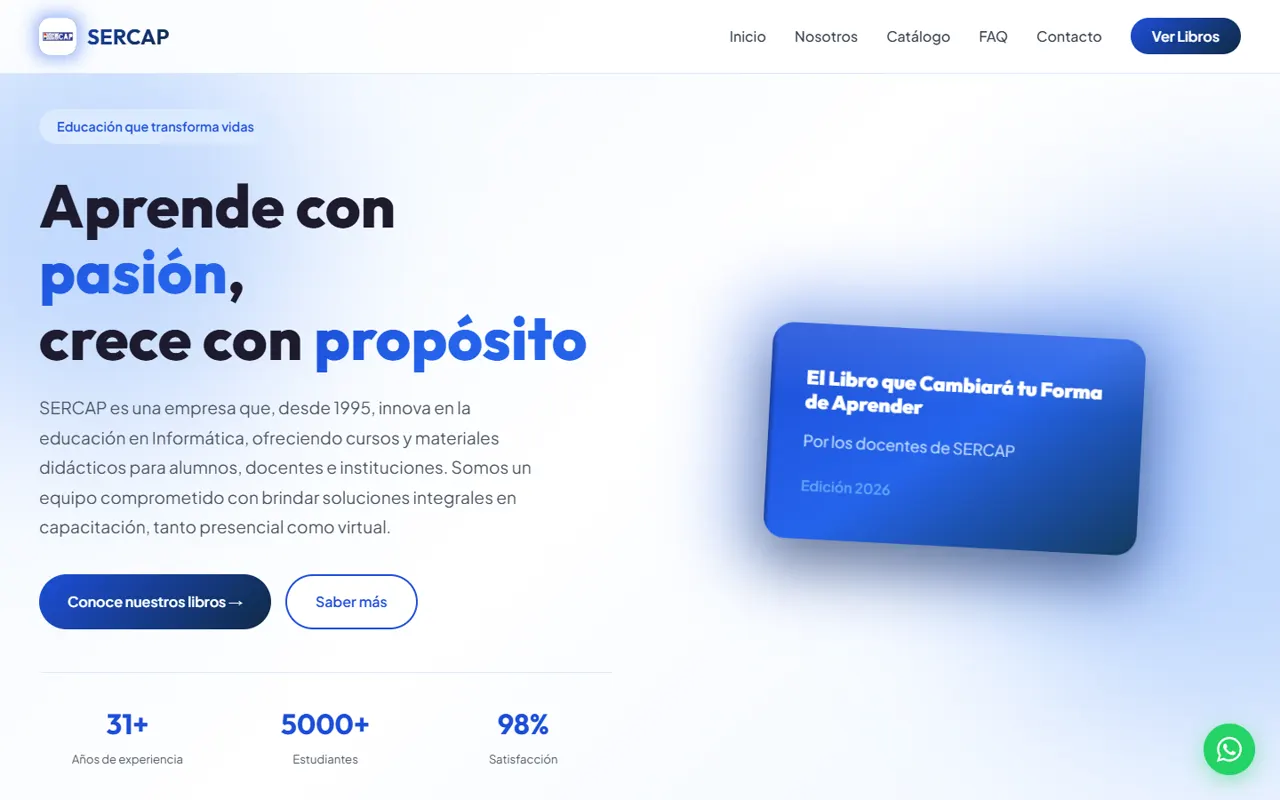
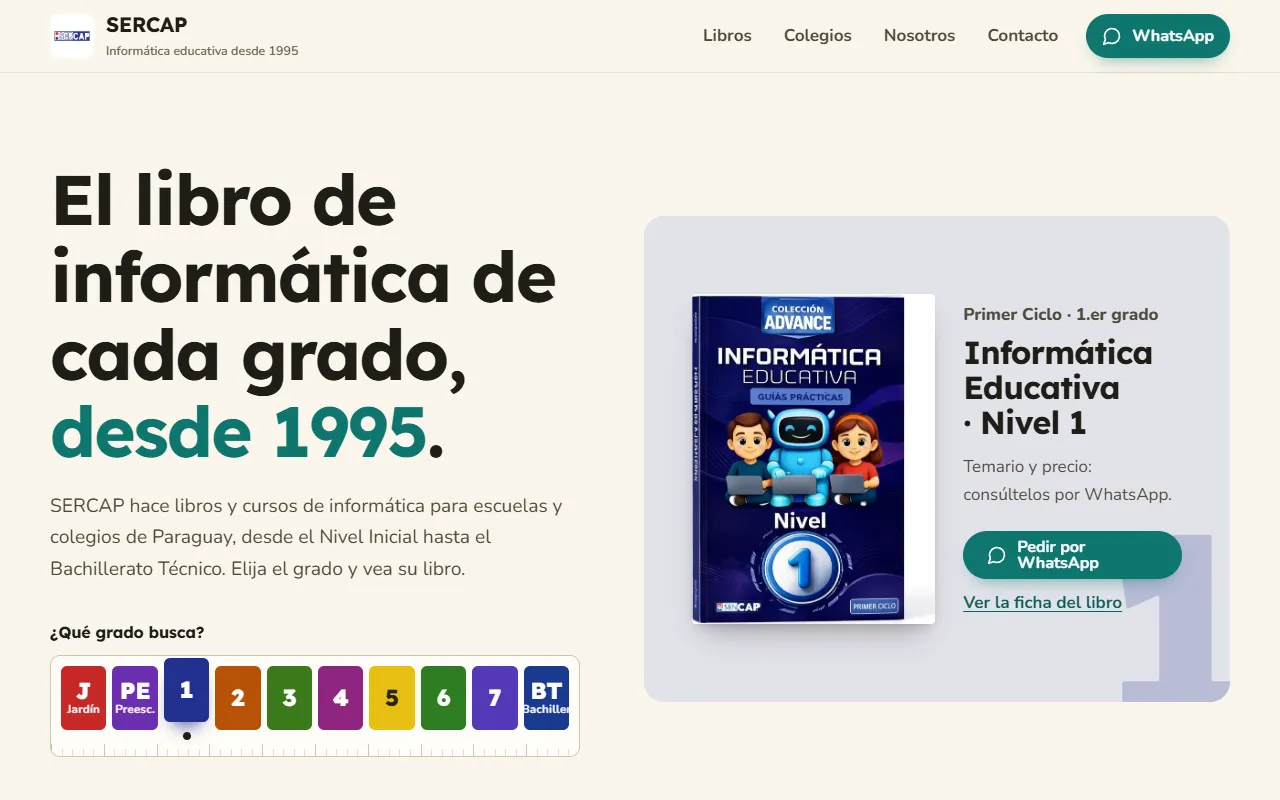
fix: actualizar las demos de SERCAP y la plantilla de ferretería
- SERCAP pasa a sercap-libros-demo.pages.dev con la ficha del rediseño y capturas nuevas
- IR Barber Supply se reemplaza por la plantilla Tuerca y Clavo en tuerca-y-clavo-demo.pages.dev
- legal.html y README con los nombres y enlaces vigentes

diff --git a/index.html b/index.html
@@ -113,8 +113,8 @@
         <header><span>$ estado --proyectos</span><span>3 registros</span></header>
         <ul>
           <li><a href="https://reservaya-umber.vercel.app" target="_blank" rel="noopener noreferrer"><b>ReservaYa</b><small>Next.js + API Django REST · Vercel / Render</small></a><span class="mark live">En vivo</span></li>
-          <li><a href="https://sercap.vercel.app" target="_blank" rel="noopener noreferrer"><b>SERCAP</b><small>Empresa educativa paraguaya · Vercel</small></a><span class="mark live">En vivo</span></li>
-          <li><a href="https://irbarber-demo.vercel.app" target="_blank" rel="noopener noreferrer"><b>IR Barber Supply</b><small>E-commerce en JS vanilla · demo en Vercel</small></a><span class="mark dev">En desarrollo</span></li>
+          <li><a href="https://sercap-libros-demo.pages.dev" target="_blank" rel="noopener noreferrer"><b>SERCAP</b><small>Empresa educativa paraguaya · Cloudflare Pages</small></a><span class="mark live">En vivo</span></li>
+          <li><a href="https://tuerca-y-clavo-demo.pages.dev" target="_blank" rel="noopener noreferrer"><b>Tuerca y Clavo</b><small>Plantilla de tienda en JS vanilla · Cloudflare Pages</small></a><span class="mark live">Demo</span></li>
         </ul>
         <div class="prompt" aria-hidden="true"><b>jesus@portafolio</b>:~$ <span class="caret"></span></div>
       </aside>
@@ -144,38 +144,38 @@
           <div class="links"><a href="https://reservaya-umber.vercel.app" target="_blank" rel="noopener noreferrer">Ver en vivo</a><a href="https://github.com/Dani01001/Apta" target="_blank" rel="noopener noreferrer">Código en GitHub</a></div>
         </article>
         <article class="glass proj reveal">
-          <div class="row"><span class="mark live">En vivo · 2025</span></div>
+          <div class="row"><span class="mark live">En vivo · 2026</span></div>
           <h3>SERCAP</h3>
-          <div class="urlbar"><i aria-hidden="true"></i><span>sercap.vercel.app</span></div>
-          <div class="shot"><img class="shot-desk" src="img/proyectos/sercap-escritorio.webp" alt="Portada de SERCAP con el lema Aprende con pasión y sus cifras de trayectoria" width="1280" height="800" loading="lazy" decoding="async"><div class="shot-phone"><img src="img/proyectos/sercap-movil.webp" alt="Portada de SERCAP en el celular" width="300" height="649" loading="lazy" decoding="async"></div></div>
-          <p>Reconstrucción completa del sitio de una empresa educativa paraguaya activa desde 1995, con catálogo de libros, testimonios, equipo y contacto.</p>
-          <div class="stack"><span>HTML5</span><span>CSS3</span><span>JavaScript</span><span>Vercel</span></div>
+          <div class="urlbar"><i aria-hidden="true"></i><span>sercap-libros-demo.pages.dev</span></div>
+          <div class="shot"><img class="shot-desk" src="img/proyectos/sercap-escritorio.webp" alt="Portada de SERCAP con el lema El libro de informática de cada grado, desde 1995, y la regla de grados" width="1280" height="800" loading="lazy" decoding="async"><div class="shot-phone"><img src="img/proyectos/sercap-movil.webp" alt="Portada de SERCAP en el celular" width="300" height="649" loading="lazy" decoding="async"></div></div>
+          <p>Rediseño del sitio de una empresa educativa paraguaya activa desde 1995: catálogo de sus diez libros de informática por grado, una ficha por libro, página para colegios y contacto por WhatsApp.</p>
+          <div class="stack"><span>HTML5</span><span>CSS3</span><span>JavaScript</span><span>Cloudflare Pages</span></div>
           <details class="case">
             <summary>Ver el caso completo</summary>
             <dl>
-              <div><dt>Problema</dt><dd>El sitio anterior estaba desactualizado, no reflejaba la trayectoria de la empresa ni facilitaba la venta de sus materiales didácticos online.</dd></div>
-              <div><dt>Solución</dt><dd>Landing responsiva con animaciones CSS, contadores dinámicos y slider de testimonios, sin dependencias externas.</dd></div>
-              <div><dt>Qué demuestra</dt><dd>Capacidad de reconstruir un sitio de producción completo desde cero, sin frameworks, con foco en rendimiento y diseño responsivo.</dd></div>
+              <div><dt>Problema</dt><dd>El sitio anterior listaba los libros sin sus tapas, y elegir el libro de cada grado no era directo.</dd></div>
+              <div><dt>Solución</dt><dd>Sitio estático sin frameworks, con las páginas generadas por un script en Node (encabezado y pie comunes) y los datos de los libros en un solo módulo. Una regla de grados muestra el libro elegido, el catálogo se filtra por ciclo y el precio y el temario se consultan por WhatsApp, sin inventar datos. Tapas optimizadas, fuentes alojadas en el propio sitio y CSP estricta, sin estilos ni scripts en línea.</dd></div>
+              <div><dt>Qué demuestra</dt><dd>Rehacer un sitio existente con datos verificados (las tapas de los libros y el sitio oficial de la empresa), sin frameworks y con cabeceras de seguridad desde el primer día.</dd></div>
             </dl>
           </details>
-          <div class="links"><a href="https://sercap.vercel.app" target="_blank" rel="noopener noreferrer">Ver en vivo</a><a href="https://github.com/Dani01001/SERCAP" target="_blank" rel="noopener noreferrer">Código</a></div>
+          <div class="links"><a href="https://sercap-libros-demo.pages.dev" target="_blank" rel="noopener noreferrer">Ver en vivo</a><span class="note">Código privado</span></div>
         </article>
         <article class="glass proj reveal">
-          <div class="row"><span class="mark dev">En desarrollo · 2025</span></div>
-          <h3>IR Barber Supply</h3>
-          <div class="urlbar dev"><i aria-hidden="true"></i><span>irbarber-demo.vercel.app · demo del prototipo</span></div>
-          <div class="shot"><img class="shot-desk" src="img/proyectos/irbarber-escritorio.webp" alt="Portada oscura de IR Barber Supply con el selector minorista o profesional" width="1280" height="800" loading="lazy" decoding="async"><div class="shot-phone"><img src="img/proyectos/irbarber-movil.webp" alt="Portada de IR Barber Supply en el celular" width="300" height="649" loading="lazy" decoding="async"></div></div>
-          <p>E-commerce de insumos para barberías con precios mayorista y minorista, en JavaScript vanilla y sin frameworks.</p>
-          <div class="stack"><span>JavaScript ES6+</span><span>Módulos</span><span>pub/sub</span><span>localStorage</span></div>
+          <div class="row"><span class="mark live">Demo en vivo · 2026</span></div>
+          <h3>Tuerca y Clavo</h3>
+          <div class="urlbar dev"><i aria-hidden="true"></i><span>tuerca-y-clavo-demo.pages.dev · marca de ejemplo</span></div>
+          <div class="shot"><img class="shot-desk" src="img/proyectos/tuerca-y-clavo-escritorio.webp" alt="Portada de la tienda Tuerca y Clavo con el pedido por código y los rubros de ferretería" width="1280" height="800" loading="lazy" decoding="async"><div class="shot-phone"><img src="img/proyectos/tuerca-y-clavo-movil.webp" alt="Portada de Tuerca y Clavo en el celular" width="300" height="649" loading="lazy" decoding="async"></div></div>
+          <p>Plantilla de tienda para ferreterías, con marca, catálogo y precios de ejemplo: 20 productos en 6 rubros, carrito, tarifa minorista o mayorista y pedido por WhatsApp, en JavaScript vanilla.</p>
+          <div class="stack"><span>JavaScript ES6+</span><span>Módulos</span><span>localStorage</span><span>CSP estricta</span></div>
           <details class="case">
             <summary>Ver el caso completo</summary>
             <dl>
-              <div><dt>Problema</dt><dd>Las barberías no tenían dónde comprar insumos profesionales online con precios diferenciados entre minorista y mayorista.</dd></div>
-              <div><dt>Solución</dt><dd>Estado global con patrón pub/sub (eventos personalizados), carrito persistido en localStorage con sincronización entre pestañas y reglas de negocio reales: tarifa dual, descuentos por volumen y pedido mínimo mayorista, en guaraníes.</dd></div>
-              <div><dt>Qué demuestra</dt><dd>Diseñar una arquitectura de estado desde cero y modelar lógica de negocio real para un mercado específico.</dd></div>
+              <div><dt>Problema</dt><dd>Una ferretería vende por unidad y por mayor, con precios distintos, y necesita una tienda que cambie de tarifa y pida los datos fiscales solo cuando corresponde.</dd></div>
+              <div><dt>Solución</dt><dd>Marca, catálogo y reglas mayoristas en un solo módulo, para adaptar la plantilla a otro local. La tarifa minorista o mayorista se elige en el encabezado y los precios cambian al instante. El pedido mayorista exige un mínimo de Gs. 500.000, aplica 5 % desde Gs. 2.000.000 y 8 % desde Gs. 5.000.000, y valida el RUC con su dígito verificador (módulo 11). El carrito se guarda en localStorage y se puede armar por código de producto. Sin número de WhatsApp cargado funciona en modo demostración: muestra el pedido en pantalla y no lo envía a ningún número. CSP estricta, sin estilos ni scripts en línea.</dd></div>
+              <div><dt>Qué demuestra</dt><dd>Modelar reglas de negocio reales de un mercado específico (tarifa dual, escalones por volumen, RUC) en JavaScript sin frameworks, y dejar el producto listo para adaptarse a un local real.</dd></div>
             </dl>
           </details>
-          <div class="links"><a href="https://irbarber-demo.vercel.app" target="_blank" rel="noopener noreferrer">Ver demo</a><span class="note">Código privado</span></div>
+          <div class="links"><a href="https://tuerca-y-clavo-demo.pages.dev" target="_blank" rel="noopener noreferrer">Ver demo</a><span class="note">Código privado</span></div>
         </article>
       </div>
       <div class="links more-repos reveal"><a href="https://github.com/Dani01001" target="_blank" rel="noopener noreferrer">Ver todos los repositorios en GitHub</a></div>
@@ -438,7 +438,7 @@
           <img src="profile.jpg" alt="Retrato de Jesús Amarilla" width="120" height="120" loading="lazy">
           <div>
             <p>Soy <strong>Técnico en Informática</strong>, egresado del Salesianito en 2025 con título del MEC, y curso <strong>Ingeniería en Informática en la UAA</strong>. Hice una pasantía de 220 horas en infraestructura TI trabajando con redes, hardware, soporte remoto y bases de datos.</p>
-            <p>Mi base es <strong>HTML, CSS y JavaScript</strong>. Diseñé desde cero la arquitectura de IR Barber Supply y construí la API de ReservaYa en Django REST Framework. Trabajo con <strong>React, Next.js y TypeScript</strong>, y también trabajé en equipo en FortBox, un control de acceso RFID con Arduino.</p>
+            <p>Mi base es <strong>HTML, CSS y JavaScript</strong>. Diseñé desde cero una tienda online en JavaScript sin frameworks, hoy plantilla para ferreterías, y construí la API de ReservaYa en Django REST Framework. Trabajo con <strong>React, Next.js y TypeScript</strong>, y también trabajé en equipo en FortBox, un control de acceso RFID con Arduino.</p>
             <p>En este portafolio sumé 3D en tiempo real con Three.js, componentes accesibles con su código a la vista y visualización de datos en SVG. Aprendo rápido y entiendo el recorrido completo: de la red al deploy.</p>
           </div>
           <div class="edu">

diff --git a/legal.html b/legal.html
@@ -58,12 +58,12 @@
       <h2>4. Propiedad intelectual</h2>
       <p>El diseño, el código (HTML, CSS y JavaScript) y los textos de este sitio son de mi autoría, salvo donde se indique lo contrario. Las tipografías de Google Fonts se usan bajo sus licencias (Open Font License o Apache License).</p>
       <p>Las fotografías de los prototipos provienen de Unsplash y se usan bajo su licencia. El modelo 3D de la zapatilla es "Materials Variants Shoe" © 2021 Shopify, publicado por el Khronos Group bajo licencia Creative Commons Attribution 4.0; el helado 3D está modelado en código.</p>
-      <p>Los proyectos reales mostrados (SERCAP, ReservaYa, IR Barber Supply) se presentan como muestra de trabajo técnico propio. Las marcas, nombres comerciales y contenidos de esos proyectos pertenecen a sus respectivos titulares; su inclusión aquí solo demuestra mi participación en el desarrollo y no implica una relación comercial vigente ni cesión de derechos.</p>
+      <p>Los proyectos reales mostrados (SERCAP, ReservaYa, la plantilla de tienda Tuerca y Clavo) se presentan como muestra de trabajo técnico propio. Las marcas, nombres comerciales y contenidos de esos proyectos pertenecen a sus respectivos titulares; su inclusión aquí solo demuestra mi participación en el desarrollo y no implica una relación comercial vigente ni cesión de derechos.</p>
     </article>
 
     <article>
       <h2>5. Enlaces a sitios de terceros</h2>
-      <p>Este sitio enlaza a plataformas que no controlo: GitHub, LinkedIn, WhatsApp y las demos en vivo de mis proyectos (por ejemplo, <code>sercap.vercel.app</code>). No me hago responsable de su contenido, disponibilidad, políticas de privacidad ni prácticas de seguridad. Te recomiendo revisar los términos de cada plataforma antes de usarlas.</p>
+      <p>Este sitio enlaza a plataformas que no controlo: GitHub, LinkedIn, WhatsApp y las demos en vivo de mis proyectos (por ejemplo, <code>sercap-libros-demo.pages.dev</code>). No me hago responsable de su contenido, disponibilidad, políticas de privacidad ni prácticas de seguridad. Te recomiendo revisar los términos de cada plataforma antes de usarlas.</p>
     </article>
 
     <article>

diff --git a/README.md b/README.md
@@ -6,7 +6,7 @@ Sitio personal de presentación profesional. Frontend Developer Junior, Técnico
 
 ## Qué incluye
 
-- **Proyectos reales:** ReservaYa, SERCAP e IR Barber Supply, con enlaces en vivo y el caso completo de cada uno.
+- **Proyectos reales:** ReservaYa, SERCAP y la plantilla de tienda Tuerca y Clavo, con enlaces en vivo y el caso completo de cada uno.
 - **Estudio de diseño:** 15 prototipos navegables de marcas ficticias (gastronomía, e-commerce y corporativo), con visor en modo escritorio, tablet y móvil. Tres son experimentales: un helado 3D con Three.js, una zapatilla 3D con model-viewer y una agencia con tipografía de ancho variable.
 - **Laboratorio de componentes:** 16 componentes interactivos con su HTML, CSS y JavaScript a la vista.
 - **Lo que puedo integrar:** demostraciones de inicio de sesión con Google, pago con tarjeta en modo prueba, pedidos a WhatsApp, formularios, app sin conexión, API con JWT y panel de ventas.
